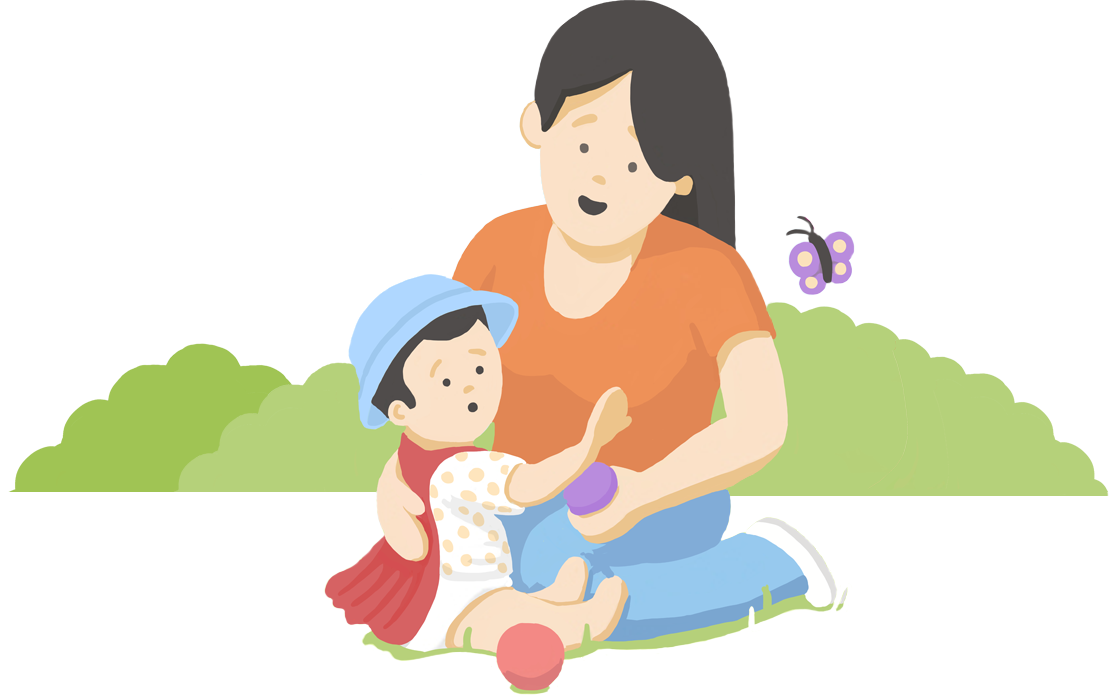
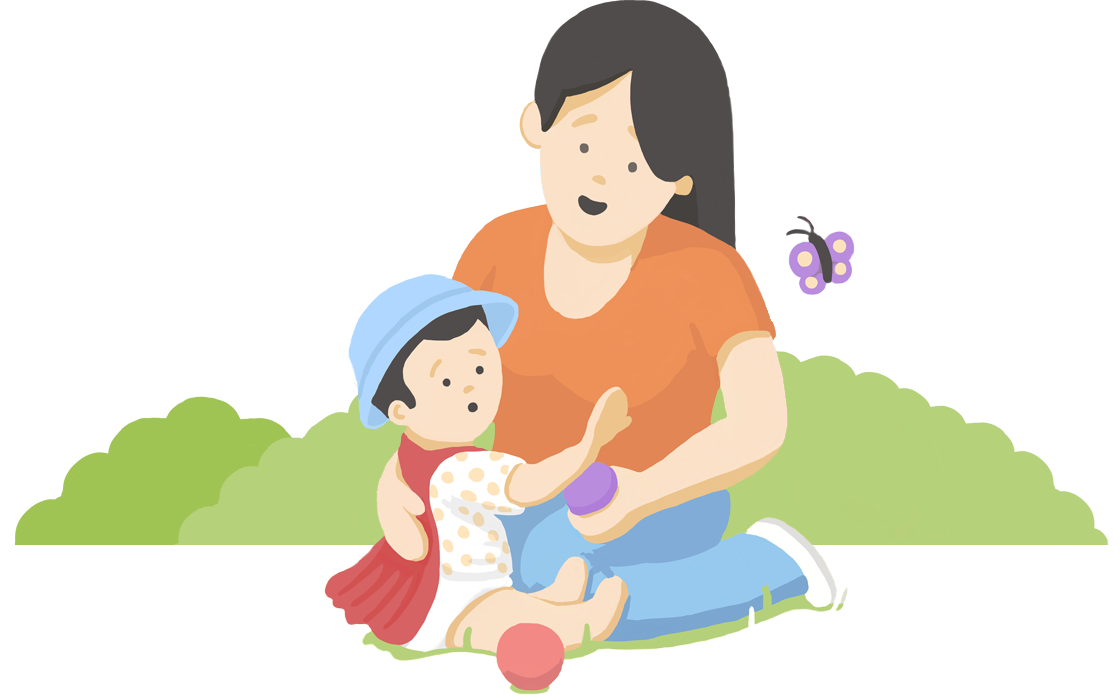
RM40828 added register birth welcome action

Changed region(s): [[0.0, 0.48, 0.3438, 0.78], [0.625, 0.42, 1.0, 0.78]]

diff --git a/src/components/welcome/welcome.scss b/src/components/welcome/welcome.scss
@@ -20,7 +20,7 @@
     }
 
     @media #{$desktop-and-above} {
-      height: 480px;
+      height: 400px;
     }
 
     @media print {
@@ -33,15 +33,13 @@
     max-width: $desktop-max-content-width;
     margin-left: auto;
     margin-right: auto;
-    padding: 70px 15px 20px;
 
     @media #{$tablet-and-above} {
-      padding-top: 110px;
+      padding-top: 80px;
     }
 
     @media #{$desktop-and-above} {
-      padding-top: 75px;
-      padding-left: $welcome-desktop-padding-left;
+      padding-top: 100px;
       margin-left: auto;
       margin-right: auto;
     }
@@ -61,7 +59,7 @@
       height: 195px;
       background-image: url(/assets/img/illustrations/header-illustration.png);
       background-size: cover;
-      top: -137px;
+      top: -152px;
       left: 50%;
       margin-left: -156px;
 
@@ -72,14 +70,14 @@
       @media #{$tablet-and-above} {
         width: 432px;
         height: 270px;
-        top: -190px;
+        top: -210px;
         margin-left: -216px;
       }
 
       @media #{$desktop-and-above} {
         width: 560px;
         height: 350px;
-        top: -246px;
+        top: -272px;
         left: -90px;
         margin-left: 0;
       }
@@ -91,12 +89,17 @@
   }
 
   .welcome-intro {
+    padding: 70px 15px 0;
+
+    @media #{$tablet-and-above} {
+      padding: 0 100px 0 15px;
+    }
 
     @media #{$desktop-and-above} {
       position: absolute;
       top: -330px;
-      max-width: $desktop-max-content-width - $welcome-desktop-padding-left;
-      padding-right: 15px;
+      max-width: $desktop-max-content-width;
+      padding: 40px 100px 0 $welcome-desktop-padding-left;
     }
 
     h2 {
@@ -122,6 +125,16 @@
     }
   }
 
+  .welcome-content {
+    padding-left: 15px;
+    padding-right: 15px;
+    padding-bottom: 19px;
+
+    @media #{$desktop-and-above} {
+      padding-bottom: 34px;
+    }
+  }
+
   .welcome-action {
     color: $welcome-button-color;
     font-weight: 500;
@@ -130,8 +143,12 @@
     padding: 7px 30px 7px 45px;
     border-radius: 18px;
     position: relative;
-    margin-right: 20px;
+    margin-right: $welcome-buttons-margin-right;
     margin-bottom: 15px;
+
+    @media #{$desktop-and-above} {
+      margin-right: $welcome-desktop-buttons-margin-right;
+    }
 
     &::before {
       font-family: 'icomoon' !important;
@@ -158,6 +175,13 @@
     }
     &.welcome-action-todo-list::before {
       content: $icon-todo;
+    }
+    &.welcome-action-register-birth::before {
+      content: $icon-tick;
+    }
+
+    &:last-of-type {
+      margin-right: 0;
     }
 
     @media print {

diff --git a/src/components/welcome/welcome.js b/src/components/welcome/welcome.js
@@ -12,6 +12,7 @@ class Welcome extends Component {
 
     this.profileClick = this.profileClick.bind(this)
     this.todoClick = this.todoClick.bind(this)
+    this.registerClick = this.registerClick.bind(this)
   }
 
   profileClick (event) {
@@ -42,6 +43,16 @@ class Welcome extends Component {
     this.props.dispatch(piwikTrackPost('Welcome', piwikEvent))
   }
 
+  registerClick () {
+    let piwikEvent = {
+      'category': 'Welcome',
+      'action': 'Click button',
+      'name': 'Register birth online'
+    }
+    // track the event
+    this.props.dispatch(piwikTrackPost('Welcome', piwikEvent))
+  }
+
   render () {
     return (
       <div className='welcome' role='banner'>
@@ -52,10 +63,11 @@ class Welcome extends Component {
             <p>SmartStart provides step-by-step information and support to help you access the right services for you and your baby.</p>
           </div>
 
-          <div role='navigation'>
+          <div className='welcome-content' role='navigation'>
             <a href='#' onClick={this.profileClick} aria-controls='my-profile' role='button' className='welcome-action welcome-action-personalise'>Add your due date</a>
-            <a href='#' onClick={this.todoClick} aria-controls='todo-list' role='button' className='welcome-action welcome-action-todo-list'>Check your To Do list</a>
             <JumpNav />
+            <a href='#' onClick={this.todoClick} aria-controls='todo-list' role='button' className='welcome-action welcome-action-todo-list'>Check your To Do list</a>
+            <a href='#161' onClick={this.registerClick} role='button' className='welcome-action welcome-action-register-birth'>Register birth online</a>
 
             <Messages />
           </div>

diff --git a/src/components/welcome/jump-nav/jump-nav.scss b/src/components/welcome/jump-nav/jump-nav.scss
@@ -4,9 +4,13 @@
   position: relative;
   display: inline-block;
   margin-bottom: 15px;
+  margin-right: $welcome-buttons-margin-right;
+
+  @media #{$desktop-and-above} {
+    margin-right: $welcome-desktop-buttons-margin-right;
+  }
 
   .jump-nav-trigger {
-    margin-right: 0;
     margin-bottom: 0;
     position: relative;
     padding-right: 40px;

diff --git a/src/variables.scss b/src/variables.scss
@@ -52,6 +52,8 @@ $welcome-desktop-padding-left: 376px;
 $welcome-button-color: #fff;
 $welcome-button-bg-color: $link-color-hover;
 $welcome-button-bg-color-hover: $text-color;
+$welcome-buttons-margin-right: 20px;
+$welcome-desktop-buttons-margin-right: 30px;
 
 // timeline
 $timeline-border-width: 2px;
